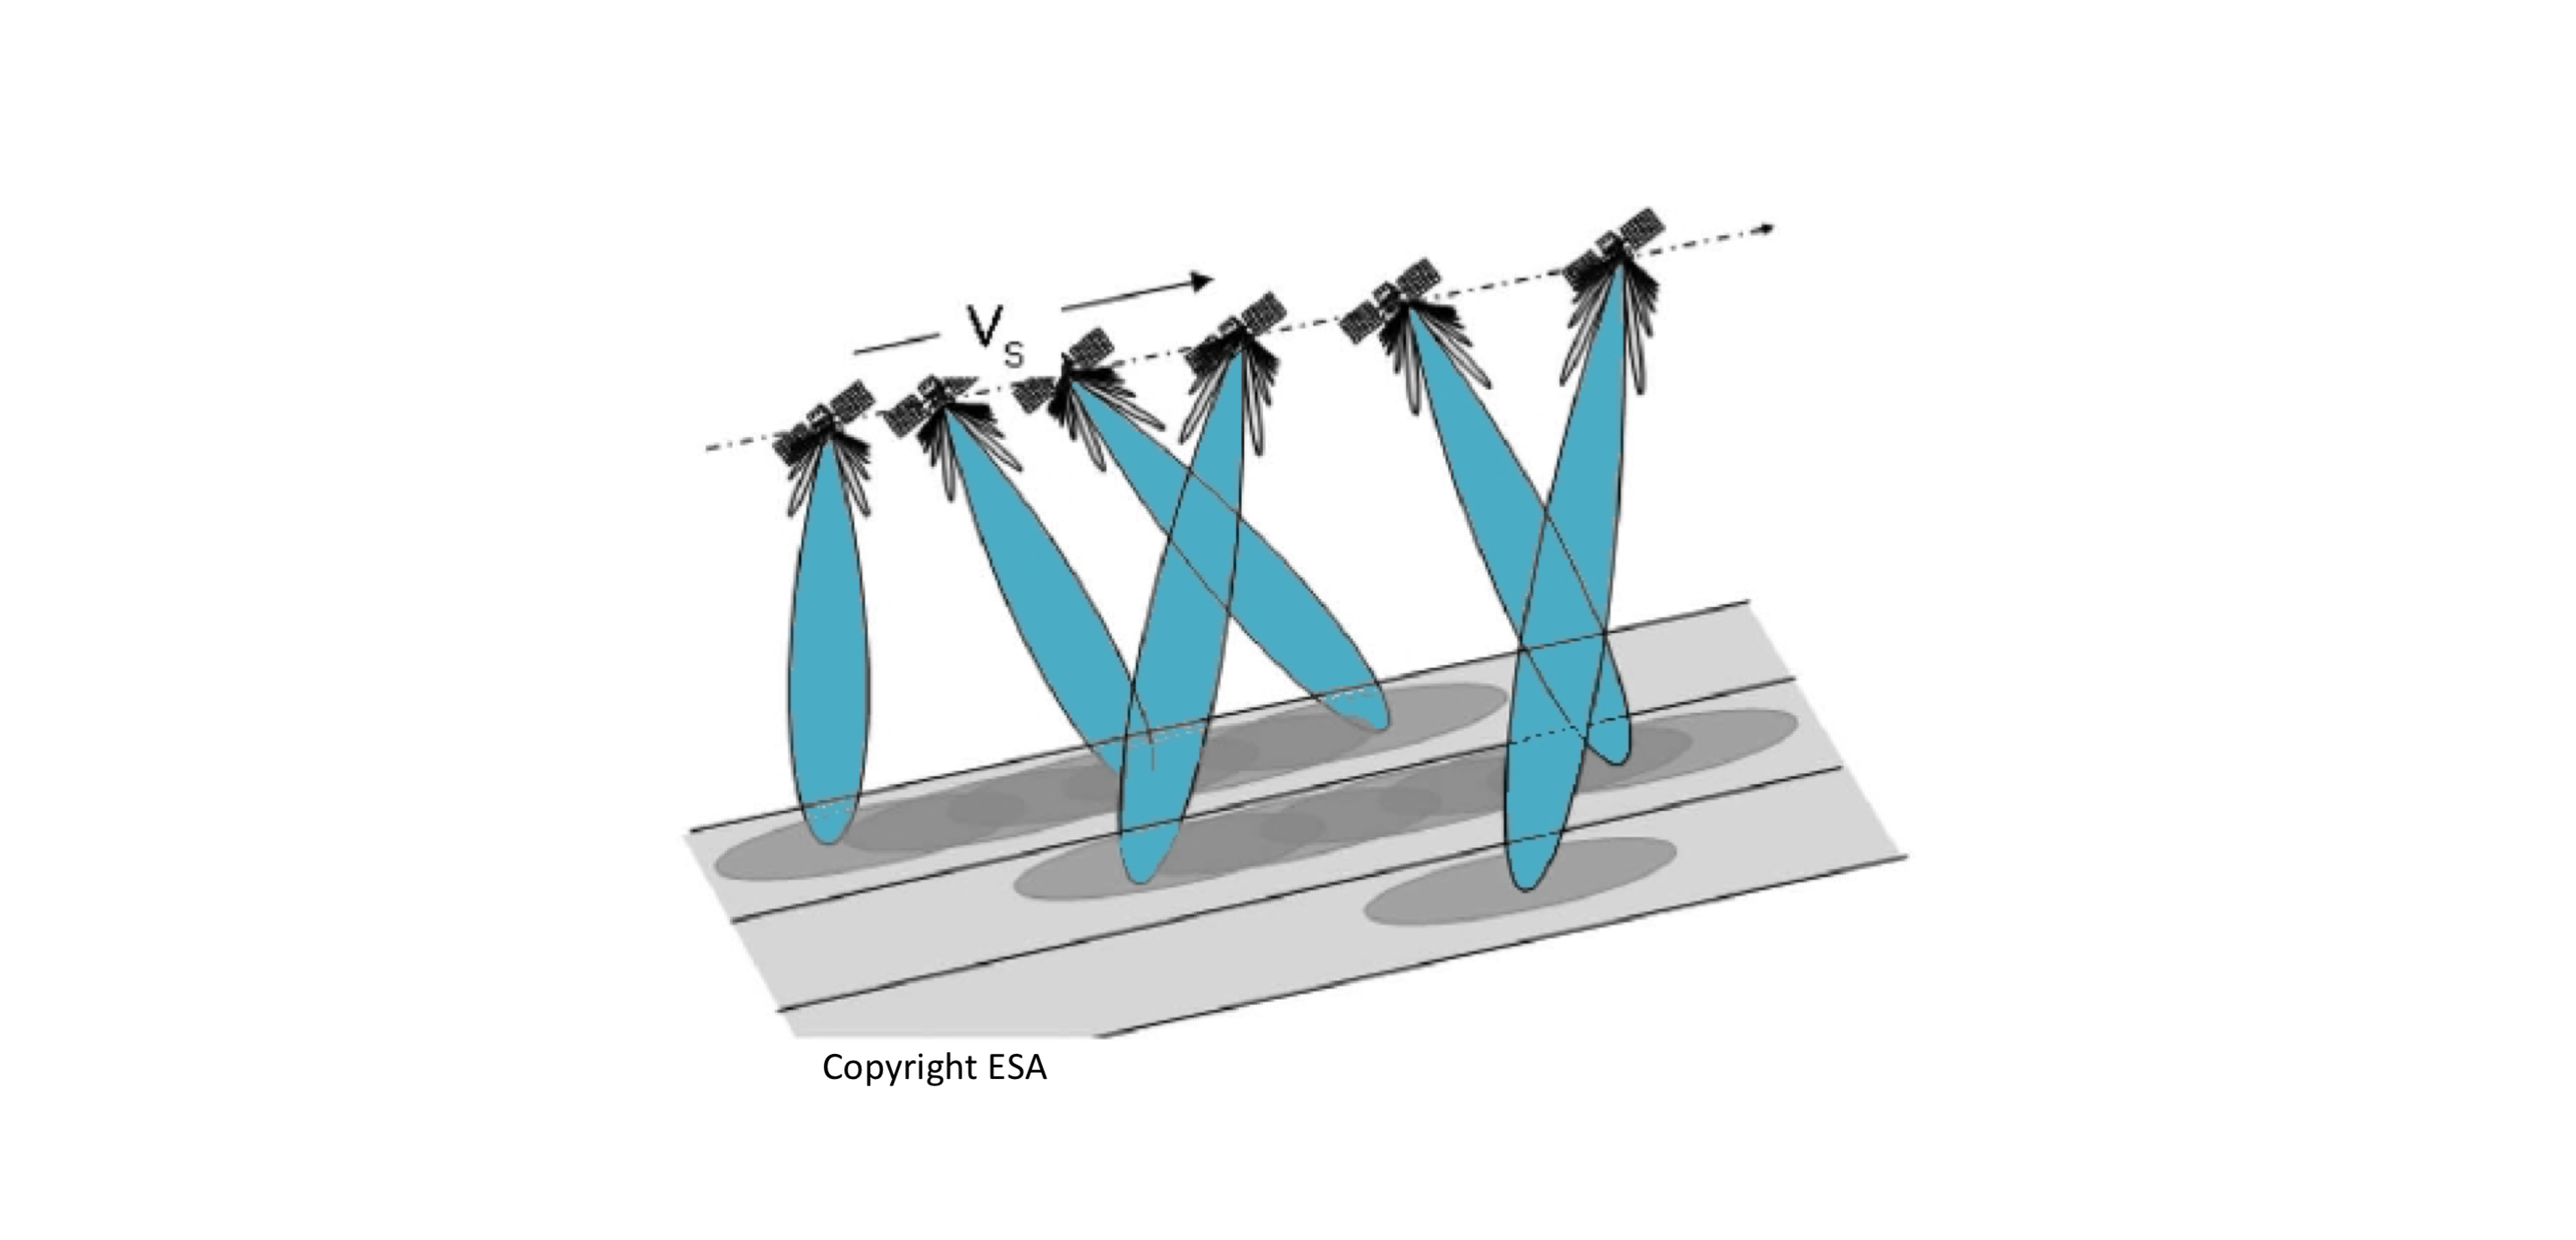
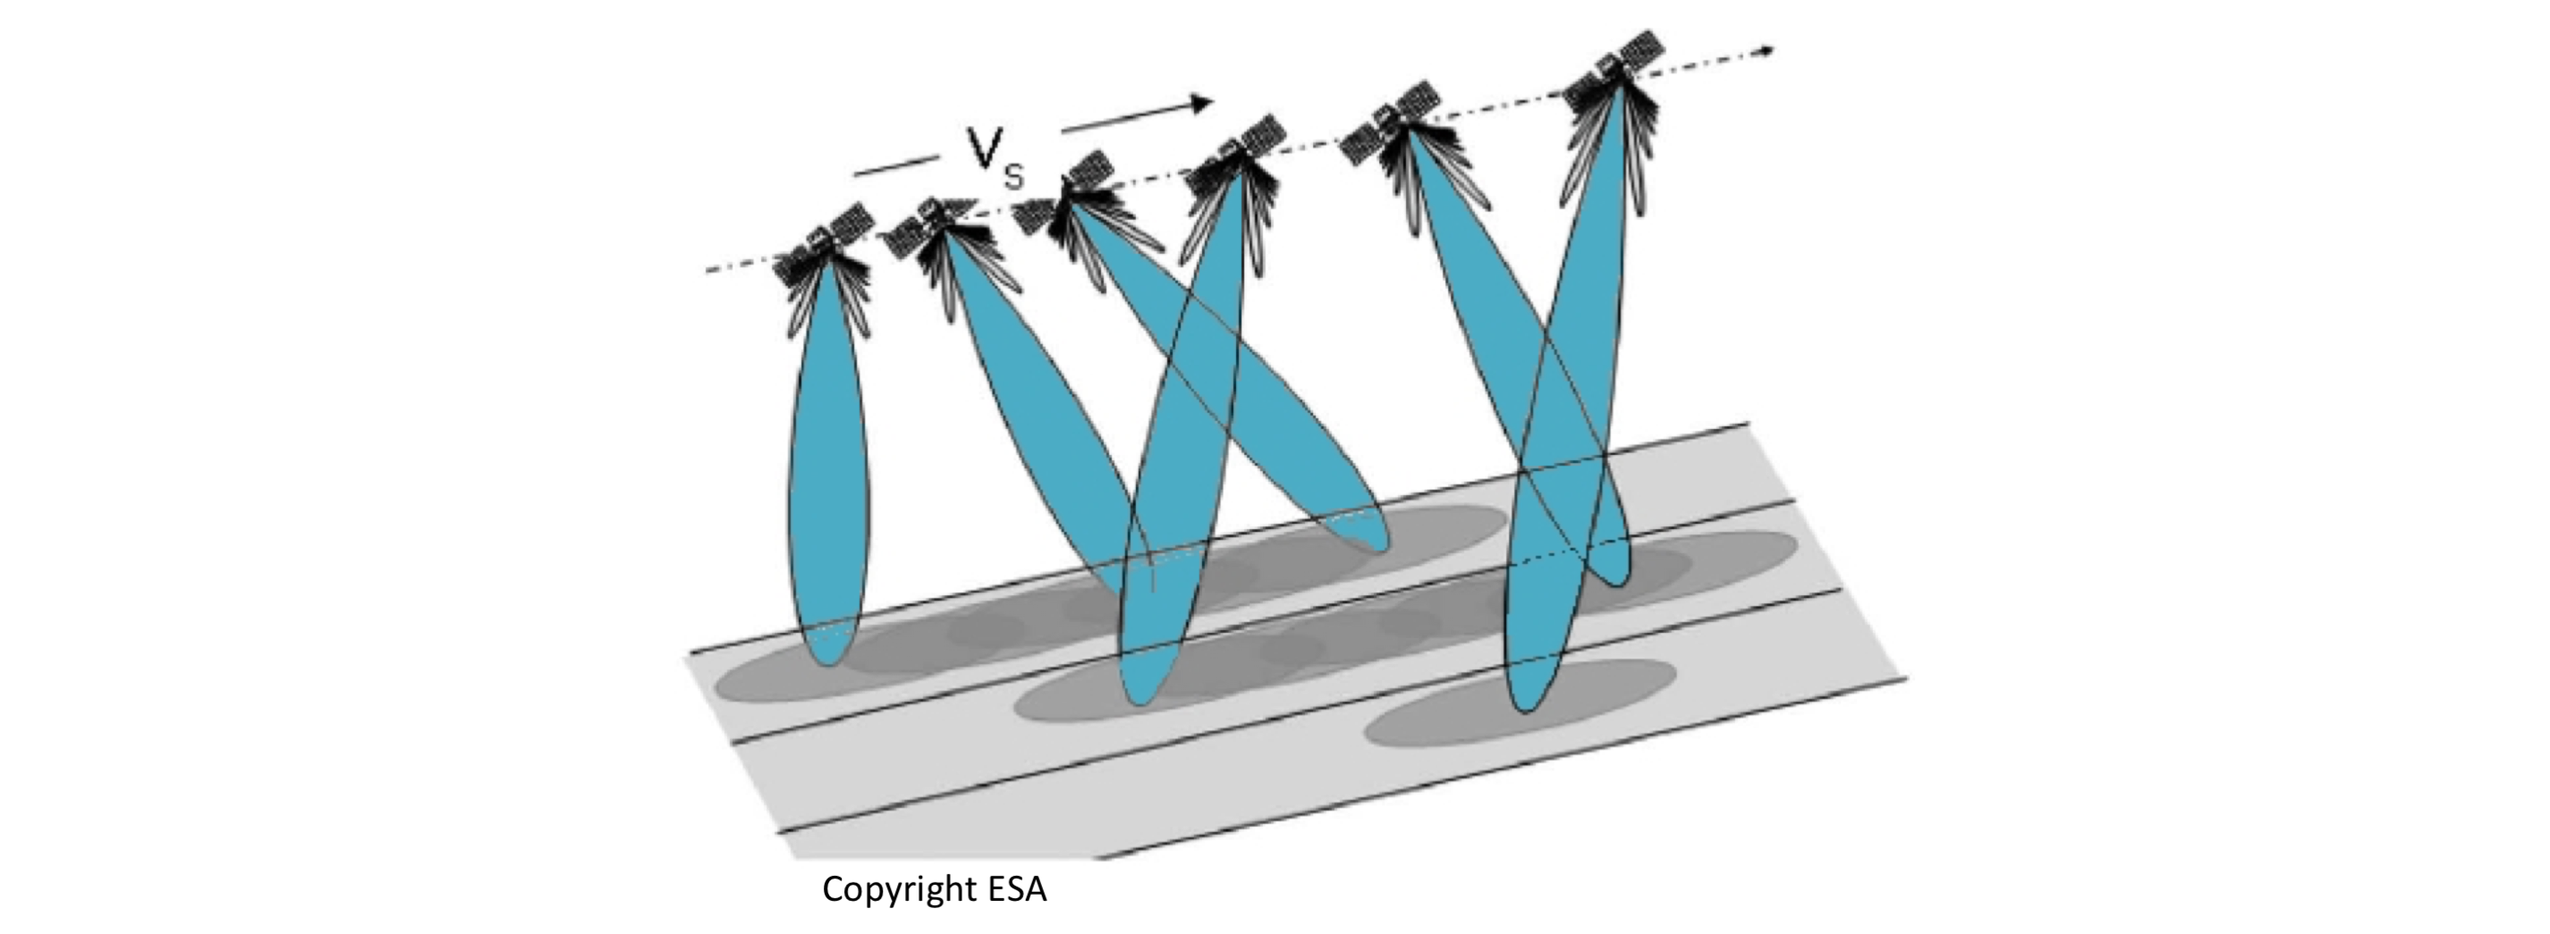
2.1 S1_GSLC: more fig/text for edu
+ add more figures and context on the burst ID and coregistration theory

+ move runconfigs folder within the CSLC directory, to be consistent with OPERA

Changed region(s): [[0.2497, 0.0306, 0.7492, 0.9799], [0.6868, 0.0306, 0.718, 0.0612]]

diff --git a/2.1_ISCE3_TOPS_Processing/utils.py b/2.1_ISCE3_TOPS_Processing/utils.py
@@ -2291,8 +2291,14 @@ def write_geo_runconfig(out_path, safe_path, orbit_path, burst_id,
             },
         },
     }
+
+    # create directory if not exist
+    out_path.parent.mkdir(parents=True, exist_ok=True)
+
+    # write to YAML file
     with open(out_path, 'w') as f:
         yaml.dump(cfg, f, default_flow_style=False, sort_keys=False)
+    return out_path
 
 def _s1_cslc_worker(args):
     """Module-level worker for multiprocessing s1_cslc.py calls.
@@ -3323,10 +3329,7 @@ def ifgram_and_coherence(ref_h5, sec_h5, burst_id, ifgram_dir,
     burst_id : str
         Burst identifier (e.g. ``'t124_264306_iw2'``).
     ifgram_dir : str or Path
-        Top-level directory for interferogram outputs. Files are
-        saved under ``{ifgram_dir}/{ref_ymd}_{sec_ymd}/``, where
-        the dates (YYYYMMDD) are extracted from the paths of
-        *ref_h5* and *sec_h5*.
+        Directory for interferogram outputs.
     coh_win : int
         Sliding-window size for coherence estimation (default 5
         for a 5×5 boxcar window).
@@ -3358,15 +3361,14 @@ def ifgram_and_coherence(ref_h5, sec_h5, burst_id, ifgram_dir,
     ref_ymd = ref_h5.parent.name
     sec_ymd = sec_h5.parent.name
 
-    # Build output directory and file names
-    pair_dir = Path(ifgram_dir) / f'{ref_ymd}_{sec_ymd}'
-    pair_dir.mkdir(parents=True, exist_ok=True)
-    ifg_path = pair_dir / f'{burst_id}.int.tif'
-    coh_path = pair_dir / f'{burst_id}.coh.tif'
+    # Output file names
+    ifgram_dir.mkdir(parents=True, exist_ok=True)
+    ifg_path = ifgram_dir / f'{burst_id}.int.tif'
+    coh_path = ifgram_dir / f'{burst_id}.coh.tif'
 
     # Skip if already processed
     if ifg_path.exists() and coh_path.exists():
-        print(f'  skip (exists): {burst_id} {ref_ymd}_{sec_ymd}')
+        print(f'files exist for {burst_id} {ref_ymd}_{sec_ymd}, skip re-generating.')
         return ifg_path, coh_path
 
     # Read SLC data (geocoded, complex64)
@@ -3381,6 +3383,9 @@ def ifgram_and_coherence(ref_h5, sec_h5, burst_id, ifgram_dir,
     # Form complex interferogram: ifg = ref * conj(sec)
     ifg = ref_arr * np.conj(sec_arr)
 
+    print(f'write file: {ifg_path}')
+    save_tiff(str(ifg_path), ifg, gt, proj_wkt, dtype=gdal.GDT_CFloat32)
+
     # Compute complex coherence (sliding boxcar, full resolution)
     win_area = coh_win * coh_win
     ref_pow = (np.abs(ref_arr) ** 2).astype(np.float32)
@@ -3392,14 +3397,11 @@ def ifgram_and_coherence(ref_h5, sec_h5, burst_id, ifgram_dir,
         coh = np.abs(ifg_sum) / np.sqrt(ref_sum * sec_sum)
     coh = np.nan_to_num(coh, nan=0.0).clip(0.0, 1.0).astype(np.float32)
 
-    # Save interferogram and coherence GeoTIFFs
-    save_tiff(str(ifg_path), ifg, gt, proj_wkt,
-              dtype=gdal.GDT_CFloat32)
-    save_tiff(str(coh_path), coh, gt, proj_wkt,
-              dtype=gdal.GDT_Float32)
-    print(f'  created: {ifg_path.name}  {coh_path.name}')
+    print(f'write file: {coh_path}')
+    save_tiff(str(coh_path), coh, gt, proj_wkt, dtype=gdal.GDT_Float32)
 
     return ifg_path, coh_path
+
 
 def stitch_ifgrams(burst_dir, out_bounds_wsen, output_dir,
                    file_ext='.int.tif'):
